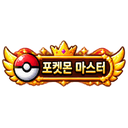
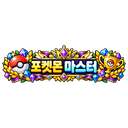
PokiName 1.6.0: 칭호 새 디자인 20개 + 한글 칭호 이름
- 리소스팩 배지 20장을 새 디자인으로 교체 (PokiTitles-RP 1.1.0)
- 칭호 명령어 이름을 한글로 (포켓몬_마스터, 띄어쓰기도 됨)
- 저장된 옛 영어 id 는 불러올 때 한글로 자동 변환
- 서버의 옛 titles.yml 은 titles.yml.old 로 백업하고 새 목록으로 교체

Claude-Session: https://claude.ai/code/session_01VgUwm9VGJDLmWn9Rka5cJU

Changed region(s): [[0.0, 0.3125, 1.0, 0.6875]]

diff --git a/PokiName/src/main/java/kr/devaechu/pokiname/Titles.java b/PokiName/src/main/java/kr/devaechu/pokiname/Titles.java
@@ -47,6 +47,8 @@ final class Titles implements CommandExecutor, TabCompleter {
 
     static final String TAG = "pokiname_title";
     static final String ADMIN = "pokiname.title.admin";
+    /** 기본 titles.yml 의 version — 기본 칭호 목록을 바꿀 때 올림 (서버의 옛 titles.yml 을 새 것으로 교체) */
+    static final int DEFS_VERSION = 2;
 
     record Def(String id, String name, String glyph, String chat, String tier) { }
 
@@ -70,7 +72,15 @@ final class Titles implements CommandExecutor, TabCompleter {
 
     void load() {
         defsFile = new File(plugin.getDataFolder(), "titles.yml");
-        if (!defsFile.exists()) plugin.saveResource("titles.yml", false);
+        if (!defsFile.exists()) {
+            plugin.saveResource("titles.yml", false);
+        } else if (YamlConfiguration.loadConfiguration(defsFile).getInt("version", 1) < DEFS_VERSION) {
+            // 칭호 목록이 새로 바뀜 → 옛 파일은 백업하고 새 목록으로
+            File old = new File(plugin.getDataFolder(), "titles.yml.old");
+            if (old.exists()) old.delete();
+            if (defsFile.renameTo(old)) plugin.getLogger().info("칭호 목록이 바뀌어 titles.yml 을 새로 만듦 (옛 파일: titles.yml.old)");
+            plugin.saveResource("titles.yml", true);
+        }
         dataFile = new File(plugin.getDataFolder(), "player-titles.yml");
         loadDefs();
         loadPlayers();
@@ -269,7 +279,7 @@ final class Titles implements CommandExecutor, TabCompleter {
                 if (!admin) { noPerm(s); return true; }
                 s.sendMessage(PokiName.color("&e칭호 전체 (" + defs.size() + "개)"));
                 for (Def d : defs.values())
-                    s.sendMessage(PokiName.color("&7- &8[" + d.tier() + "] " + d.chat() + " &7id: &f" + d.id()));
+                    s.sendMessage(PokiName.color("&7- &8[" + d.tier() + "] " + d.chat() + " &7명령어: &f" + d.id()));
             }
             case "리로드", "reload" -> {
                 if (!admin) { noPerm(s); return true; }
@@ -312,12 +322,12 @@ final class Titles implements CommandExecutor, TabCompleter {
 
     private void usage(CommandSender s, String label) {
         s.sendMessage(PokiName.color("&e/" + label + " &7- 내 칭호 목록 (눌러서 장착)"));
-        s.sendMessage(PokiName.color("&e/" + label + " 장착 <id> &7/ &e/" + label + " 해제"));
+        s.sendMessage(PokiName.color("&e/" + label + " 장착 <칭호> &7/ &e/" + label + " 해제"));
         if (s.hasPermission(ADMIN)) {
-            s.sendMessage(PokiName.color("&6/" + label + " 지급 <마크닉> <id|전체> &7- 칭호 주기"));
-            s.sendMessage(PokiName.color("&6/" + label + " 회수 <마크닉> <id|전체> &7- 칭호 뺏기"));
+            s.sendMessage(PokiName.color("&6/" + label + " 지급 <마크닉> <칭호|전체> &7- 칭호 주기"));
+            s.sendMessage(PokiName.color("&6/" + label + " 회수 <마크닉> <칭호|전체> &7- 칭호 뺏기"));
             s.sendMessage(PokiName.color("&6/" + label + " 보기 <마크닉> &7- 가진 칭호 보기"));
-            s.sendMessage(PokiName.color("&6/" + label + " 전체 &7- 칭호 id 목록"));
+            s.sendMessage(PokiName.color("&6/" + label + " 전체 &7- 칭호 목록"));
             s.sendMessage(PokiName.color("&6/" + label + " 리로드 &7- titles.yml 다시 불러오기"));
         }
     }
@@ -360,6 +370,8 @@ final class Titles implements CommandExecutor, TabCompleter {
     Def find(String key) {
         if (key == null) return null;
         Def d = defs.get(key.toLowerCase(Locale.ROOT));
+        if (d != null) return d;
+        d = defs.get(key.trim().replace(' ', '_').toLowerCase(Locale.ROOT));
         if (d != null) return d;
         String k = key.replace('_', ' ').trim();
         for (Def x : defs.values()) if (x.name().equals(k)) return x;
@@ -430,6 +442,29 @@ final class Titles implements CommandExecutor, TabCompleter {
         }
     }
 
+    /** 예전(1.5.0) 영어 id → 지금 한글 id. 저장 파일에 남은 옛 id 를 불러올 때 바꿔줌 */
+    private static final Map<String, String> OLD_IDS = Map.ofEntries(
+            Map.entry("beginner", "초보"),
+            Map.entry("poki_friend", "포키의_친구"),
+            Map.entry("warrior_path", "전사의_길"),
+            Map.entry("miner", "광산의_달인"),
+            Map.entry("fisher", "낚시의_달인"),
+            Map.entry("explorer", "탐험가"),
+            Map.entry("villager", "마을의_방문자"),
+            Map.entry("trainer", "포켓몬_트레이너"),
+            Map.entry("master", "포켓몬_마스터"),
+            Map.entry("collector", "전설의_수집가"),
+            Map.entry("gym_champion", "체육관_챔피언"),
+            Map.entry("legend_warrior", "전설의_트레이너"),
+            Map.entry("hero", "서버의_영웅"),
+            Map.entry("donor", "후원자"),
+            Map.entry("staff", "포키_운영진"));
+
+    private static String migrate(String id) {
+        String k = id.toLowerCase(Locale.ROOT);
+        return OLD_IDS.getOrDefault(k, k);
+    }
+
     private void loadPlayers() {
         players.clear();
         if (!dataFile.exists()) return;
@@ -442,9 +477,9 @@ final class Titles implements CommandExecutor, TabCompleter {
                 if (ps == null) continue;
                 Owned o = new Owned();
                 o.name = ps.getString("name");
-                for (String t : ps.getStringList("owned")) o.owned.add(t.toLowerCase(Locale.ROOT));
+                for (String t : ps.getStringList("owned")) o.owned.add(migrate(t));
                 String eq = ps.getString("equipped");
-                o.equipped = eq == null || eq.isEmpty() ? null : eq.toLowerCase(Locale.ROOT);
+                o.equipped = eq == null || eq.isEmpty() ? null : migrate(eq);
                 players.put(UUID.fromString(key), o);
             } catch (IllegalArgumentException ignored) {
             }

diff --git a/PokiTitles-RP/README.md b/PokiTitles-RP/README.md
@@ -5,28 +5,28 @@ PokiName 칭호용 배지 이미지 리소스팩. 마크 1.21.1 (pack_format 34)
 배지 한 장 = 글자 하나. `assets/minecraft/font/default.json` 에서 `\ue101` ~ `\ue114` 글자를 배지 PNG 로 바꾼다.
 PokiName 이 머리 위 텍스트 디스플레이에 이 글자를 띄우면 배지로 보인다. (리소스팩이 없으면 네모로 보임)
 
-| 글자 | id | 칭호 |
+| 글자 | 이미지 | 칭호 (명령어 이름) |
 | --- | --- | --- |
-| `\ue101` | beginner | 초보 모험가 |
-| `\ue102` | growth | 성장의 길 |
-| `\ue103` | warrior_path | 전사의 길 |
-| `\ue104` | miner | 광산의 달인 |
-| `\ue105` | fisher | 낚시의 달인 |
-| `\ue106` | explorer | 탐험가 |
-| `\ue107` | villager | 마을의 방문자 |
-| `\ue108` | poki_friend | 포키의 친구 |
-| `\ue109` | summer | 여름축제 참가자 |
-| `\ue10a` | halloween | 할로윈의 주인공 |
-| `\ue10b` | trainer | 포켓몬 트레이너 |
-| `\ue10c` | master | 포켓몬 마스터 |
-| `\ue10d` | collector | 전설의 수집가 |
-| `\ue10e` | gym_champion | 체육관 챔피언 |
-| `\ue10f` | christmas | 크리스마스 요정 |
-| `\ue110` | sakura | 벚꽃의 여행자 |
-| `\ue111` | donor | 후원자 |
-| `\ue112` | legend_warrior | 전설의 전사 |
-| `\ue113` | hero | 서버의 영웅 |
-| `\ue114` | staff | Poki 스태프 |
+| `\ue101` | t01.png | 초보 (`초보`) |
+| `\ue102` | t02.png | 포키의 친구 (`포키의_친구`) |
+| `\ue103` | t03.png | 전사의 길 (`전사의_길`) |
+| `\ue104` | t04.png | 광산의 달인 (`광산의_달인`) |
+| `\ue105` | t05.png | 낚시의 달인 (`낚시의_달인`) |
+| `\ue106` | t06.png | 포켓볼의 달인 (`포켓볼의_달인`) |
+| `\ue107` | t07.png | 탐험가 (`탐험가`) |
+| `\ue108` | t08.png | 마을의 방문자 (`마을의_방문자`) |
+| `\ue109` | t09.png | 포키 지킴이 (`포키_지킴이`) |
+| `\ue10a` | t10.png | 길잡이 요정 (`길잡이_요정`) |
+| `\ue10b` | t11.png | 관동리그 챔피언 (`관동리그_챔피언`) |
+| `\ue10c` | t12.png | 레이드 마스터 (`레이드_마스터`) |
+| `\ue10d` | t13.png | 포키 운영진 (`포키_운영진`) |
+| `\ue10e` | t14.png | 전설의 트레이너 (`전설의_트레이너`) |
+| `\ue10f` | t15.png | 포켓몬 트레이너 (`포켓몬_트레이너`) |
+| `\ue110` | t16.png | 포켓몬 마스터 (`포켓몬_마스터`) |
+| `\ue111` | t17.png | 전설의 수집가 (`전설의_수집가`) |
+| `\ue112` | t18.png | 체육관 챔피언 (`체육관_챔피언`) |
+| `\ue113` | t19.png | 서버의 영웅 (`서버의_영웅`) |
+| `\ue114` | t20.png | 후원자 (`후원자`) |
 
 ## 배포
 
